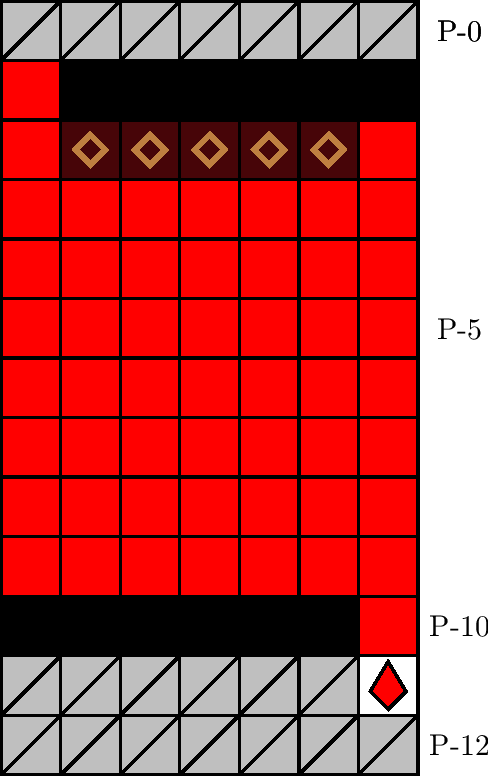
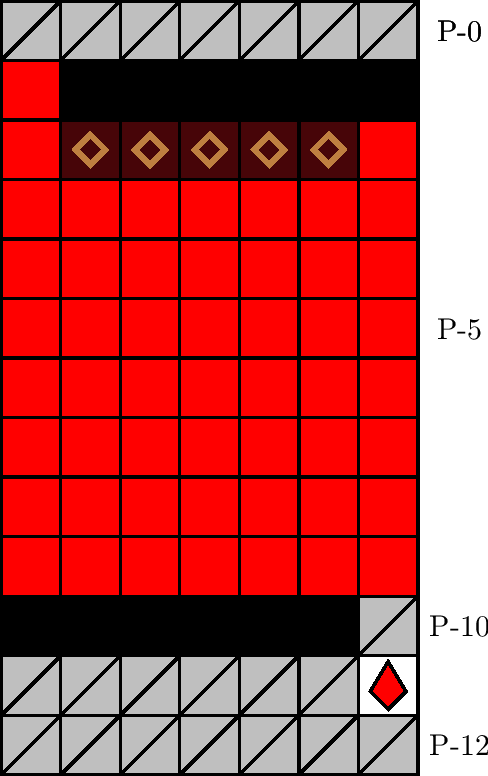
manual v.0.1.5 fig 3.2.11.1 corrected 202608041352

Changed region(s): [[0.7377, 0.7732, 0.8607, 0.866]]

diff --git a/soulhounds/index.html b/soulhounds/index.html
@@ -40,7 +40,7 @@
     </p>
     </p>
     <p>
-        本マニュアルの現行版は ver. 0.1.4 です．リンクのある記事のみがひとまず完成しています．一応 PC での閲覧を推奨します（他端末でも閲覧は可能だと思います）．
+        本マニュアルの現行版は ver. 0.1.5 です．リンクのある記事のみがひとまず完成しています．一応 PC での閲覧を推奨します（他端末でも閲覧は可能だと思います）．
     </p>
     <p>
         本マニュアルの内容のリファレンスおよび引用にあっては，筆者・サイトタイトル・サイトリンク・版の 4 つを明示し，良識の範囲内で行ってください．その限りにおいて，筆者への連絡は不要です．
@@ -173,6 +173,7 @@
 
     <h2 id="history">更新履歴</h2>
     <p>
+        ver 0.1.5: 図 3.2.11.1 を修正（P-(10, &plus;3) は任意）． 2026/08/04.<br>
         ver 0.1.4: ver 0.1.3 注記に加筆． 2026/08/04.<br>
         ver 0.1.3: 「ゲームの仕組み」の節「オブジェクトの落下」に注記を追加．軽微な修正． 2026/08/03.<br>
         ver 0.1.2: 項目「手筋・ステージ抽選」の追加．軽微な修正． 2026/08/01.<br>
